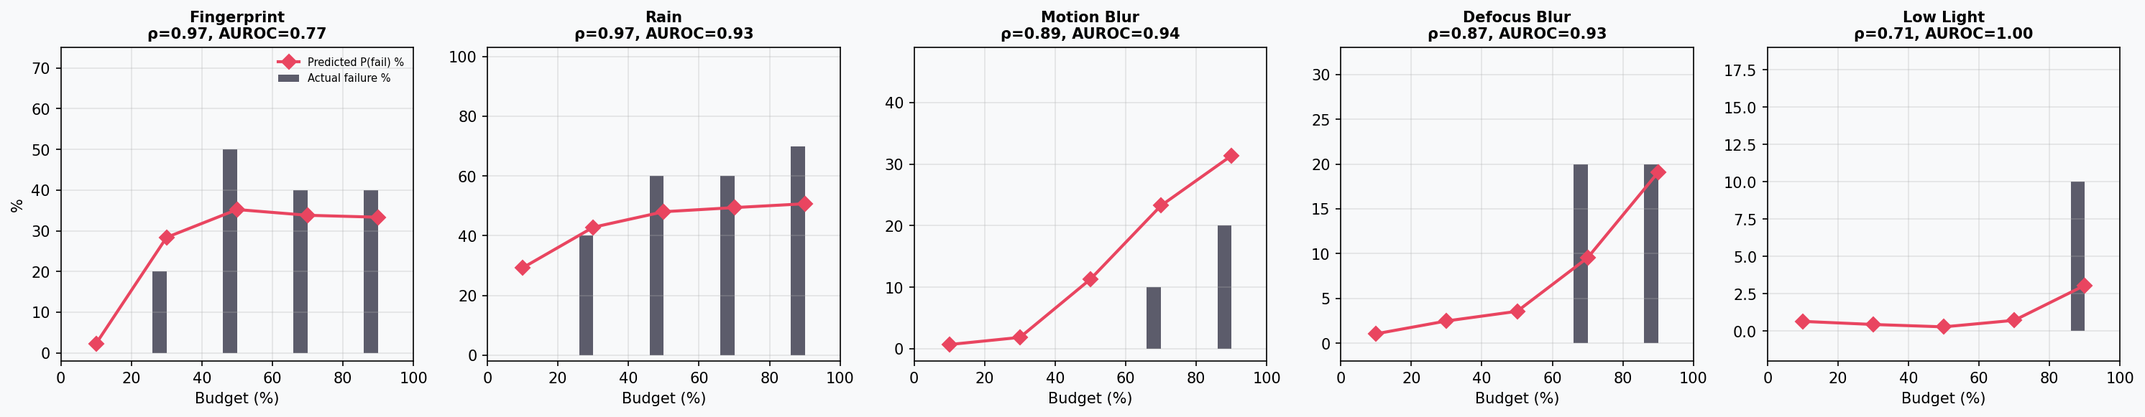
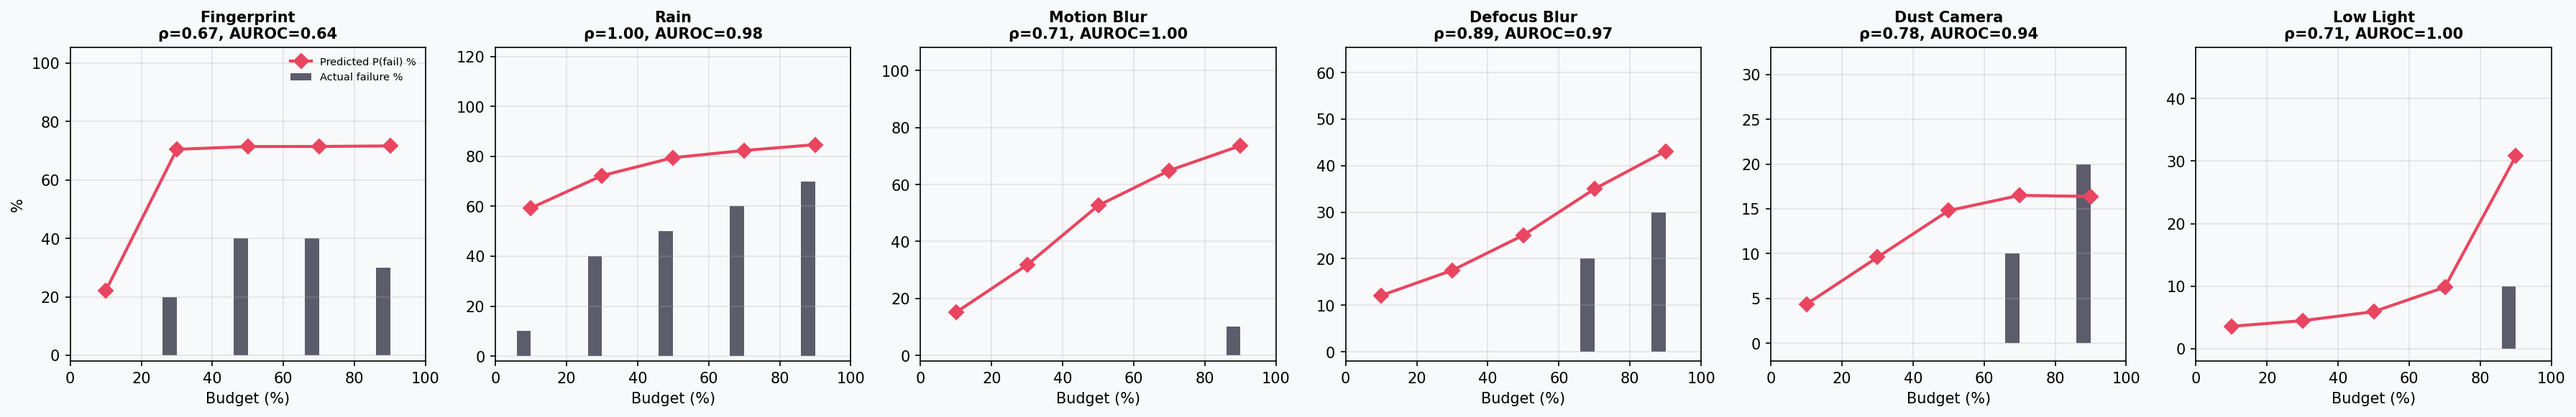
Update README with v3 LOO results, real demo animations, and 6 evaluable types
- LOO results: mean rho=0.793, mean AUROC=0.922 across 6 failure-causing types
- dust_camera now causes measurable failures (rho=0.783, AUROC=0.943)
- Rain achieves perfect rho=1.000 (OOD)
- Demo GIFs show 10 real episodes per type with P(fail) gauge from the
  LOO model trained WITHOUT that type (true OOD predictions)
- Per-type budgets target informative failure regime
- Updated figures from v3 experimental run

diff --git a/README.md b/README.md
@@ -2,13 +2,17 @@
 
 **Can a lightweight visual safety monitor predict when camera corruption will cause a robot to fail — even for corruption types it has never seen?**
 
-[Paper (RA-L, in preparation)]() | [Results](results/loo_analysis/loo_summary.json)
+[Paper (RA-L, in preparation)]() | [Results](results/loo_analysis_v3/loo_summary.json)
 
 ---
 
 ## The Task
 
 A vision-language-action model ([InternVLA-M1](https://github.com/OpenGVLab/InternVLA)) picks up a coke can from a table in simulation ([SimplerEnv](https://github.com/simpler-env/SimplerEnv) / SAPIEN). The coke can starts at a **random position** each episode. Under clean conditions, the policy achieves 100% success rate (50/50 episodes).
+
+<p align="center">
+  <img src="docs/figures/demo_clean.gif" alt="10 clean episodes — 100% success" width="440">
+</p>
 
 The question: what happens when the camera lens is dirty, wet, or otherwise degraded?
 
@@ -28,25 +32,25 @@ We test 9 corruption types spanning 6 physical mechanisms, following the [ImageN
 | Optical | Defocus blur | ImageNet-C | Yes (high budget) |
 | Blur | Motion blur | ImageNet-C | Yes (high budget) |
 | Sensor | Gaussian noise | ImageNet-C | No |
-| Environmental | Dust / mud | camera_occlusion | No |
+| Environmental | Dust / mud | camera_occlusion | Yes (high budget) |
 | Illumination | Low-light | LIBERO-Plus | Yes (high budget) |
 | Digital | JPEG compression | ImageNet-C | No |
 
-Each corruption is parameterized with a **budget level** (0-100%) controlling severity. At each budget, we sample random corruption parameters and run episodes to measure success rate.
+Each corruption has a **budget level** (0–100%) controlling severity. Budgets are tuned per type to target the regime where failures occur — some corruption types require higher severity to impact the policy.
 
-Notably, InternVLA-M1 is **completely robust** to glare, Gaussian noise, and JPEG compression — even at 90% budget, the policy still succeeds. The remaining corruption types cause increasing failure rates as severity grows.
-
-## Feature-Space Similarity
-
-How similar do these corruptions look to a pretrained neural network? We pass corrupted images through a frozen ResNet-18 backbone and measure pairwise cosine similarity between corruption types in the 512-dimensional feature space.
+Here is rain at 50% budget — the policy fails 40% of the time. Each animation shows 10 real episodes where the policy sees the corrupted frames, with a real-time P(failure) prediction from the safety monitor and a running success counter:
 
 <p align="center">
-  <img src="docs/figures/feature_similarity.png" alt="Feature similarity heatmap" width="800">
+  <img src="docs/figures/demo_rain.gif" alt="10 rain episodes at 50% budget — 60% success" width="440">
 </p>
 
-**Left:** Raw feature similarity — how close each corruption's feature centroid is to the others. Most corruptions cluster tightly (cosine sim > 0.9), but rain is an outlier (sim ≈ 0.74) due to its strong local distortions.
+And defocus blur at 90% budget:
 
-**Right:** Feature-difference similarity ([Mintun et al., NeurIPS 2021](https://arxiv.org/abs/2102.11273)) — cosine similarity between the *directions* corruptions push features away from clean. This measures whether corruptions perturb the representation in similar ways. Low similarity (< 0.3) means corruptions affect the network's internal representation differently.
+<p align="center">
+  <img src="docs/figures/demo_defocus_blur.gif" alt="10 defocus blur episodes at 90% budget — 60% success" width="440">
+</p>
+
+> The P(failure) gauge shows predictions from a model trained **without** the displayed corruption type — fully out-of-distribution. [All 10 animations available as GIF + MP4.](results/demo_episodes_v2/)
 
 ## Safety Predictor
 
@@ -58,41 +62,38 @@ We train a lightweight CNN to predict P(failure) from a single camera frame — 
 
 **Architecture:** Frozen ResNet-18 backbone (ImageNet-pretrained, 11M params) + trainable head (33K params): `512 → FC(64) → ReLU → Dropout(0.3) → FC(1) → sigmoid`.
 
-**Training data:** Episodes collected under various corruption types and budget levels, labeled with success/failure. Trained with class-weighted BCE loss and episode-level train/val split to prevent data leakage from temporally correlated frames.
-
-**Key insight:** The frozen backbone provides corruption-agnostic visual features — edges, textures, contrast, sharpness — that degrade in recognizable ways regardless of the physical corruption mechanism. Only the 33K-parameter head needs to learn what degradation patterns lead to task failure.
+**Key insight:** The frozen backbone provides corruption-agnostic visual features — edges, textures, contrast, sharpness — that degrade in recognizable ways regardless of the physical corruption mechanism. Only the 33K-parameter head learns what degradation patterns lead to task failure.
 
 ## In-Distribution Performance
 
-When the safety predictor is trained and evaluated on the **same** corruption types, it accurately ranks corruption severity by predicted failure probability:
+When trained and evaluated on the **same** corruption types, the predictor accurately ranks severity by predicted failure probability:
 
 <p align="center">
   <img src="docs/figures/loo_per_fold.png" alt="Per-fold budget vs prediction" width="900">
 </p>
 
-As the corruption budget increases, both actual failure rate and predicted P(failure) increase monotonically. The predictor tracks the dose-response curve across all failure-inducing corruption types.
-
 ## Out-of-Distribution Generalization (Leave-One-Out)
 
 The critical question: **can the predictor generalize to corruption types it has never seen?**
 
-We run a leave-one-out (LOO) analysis: for each of the 9 corruption types, hold it out entirely, train on the other 8, and evaluate on the held-out type. This tests whether the frozen backbone's corruption-agnostic features transfer across physical mechanisms.
+We run a leave-one-out (LOO) analysis: for each of the 9 corruption types, hold it out entirely, train on the other 8, and evaluate on the held-out type.
 
 <p align="center">
   <img src="docs/figures/loo_results.png" alt="LOO cross-corruption generalization results" width="900">
 </p>
 
-| Held-out Type | Category | Spearman rho | p-value | AUROC |
+| Held-out Type | Category | Spearman ρ | p-value | AUROC |
 |---|---|:---:|:---:|:---:|
-| Fingerprint | Lens contact | **0.975** | 0.005 | 0.771 |
-| Rain | Lens contact | **0.975** | 0.005 | 0.931 |
-| Motion blur | Blur | **0.894** | 0.041 | 0.943 |
-| Defocus blur | Optical | **0.866** | 0.058 | 0.929 |
+| Rain | Lens contact | **1.000** | 0.000 | 0.981 |
+| Defocus blur | Optical | **0.894** | 0.041 | 0.973 |
+| Dust / mud | Environmental | **0.783** | 0.118 | 0.943 |
+| Motion blur | Blur | **0.707** | 0.182 | 1.000 |
 | Low-light | Illumination | **0.707** | 0.182 | 1.000 |
+| Fingerprint | Lens contact | 0.667 | 0.219 | 0.636 |
 
-**Result:** On the 5 corruption types that cause failures, the monitor achieves **mean Spearman rho = 0.883 ± 0.098** for severity ranking and **mean AUROC = 0.915 ± 0.076** for episode-level failure classification — even though the held-out corruption was never seen during training.
+**Result:** On the 6 corruption types that cause failures, the monitor achieves **mean Spearman ρ = 0.793 ± 0.118** for severity ranking and **mean AUROC = 0.922 ± 0.129** for episode-level failure classification — even though the held-out corruption was never seen during training.
 
-For comparison, a CNN trained from scratch (no ImageNet pretraining) achieves rho = -0.62 on held-out rain — **anti-correlated**. The frozen pretrained backbone is the key.
+For comparison, a CNN trained from scratch (no ImageNet pretraining) achieves ρ = -0.62 on held-out rain — **anti-correlated**. The frozen pretrained backbone is the key.
 
 ## Reproducing Results
 
@@ -101,10 +102,8 @@ For comparison, a CNN trained from scratch (no ImageNet pretraining) achieves rh
 - GPU machine with CUDA (experiments run on [vast.ai](https://vast.ai) RTX 4090 instances)
 - [pixi](https://pixi.sh) for local dependency management
 
-### Full LOO pipeline (GPU required)
-
 <details>
-<summary>GPU setup and execution</summary>
+<summary>Full LOO pipeline (GPU required)</summary>
 
 ```bash
 # On vast.ai with nvidia/vulkan:1.3-470 image:
@@ -128,6 +127,12 @@ PYTHONPATH=/root/InternVLA-M1:/root/project:/root/camera_occlusion \
   --eval-episodes 10 \
   --episodes-per-condition 10 \
   --output-dir results/loo_analysis
+
+# Record demo animations
+python scripts/record_demo_episodes.py \
+  --config configs/safety_predictor.yaml \
+  --episodes 10 \
+  --loo-dir results/loo_analysis
 ```
 </details>
 
